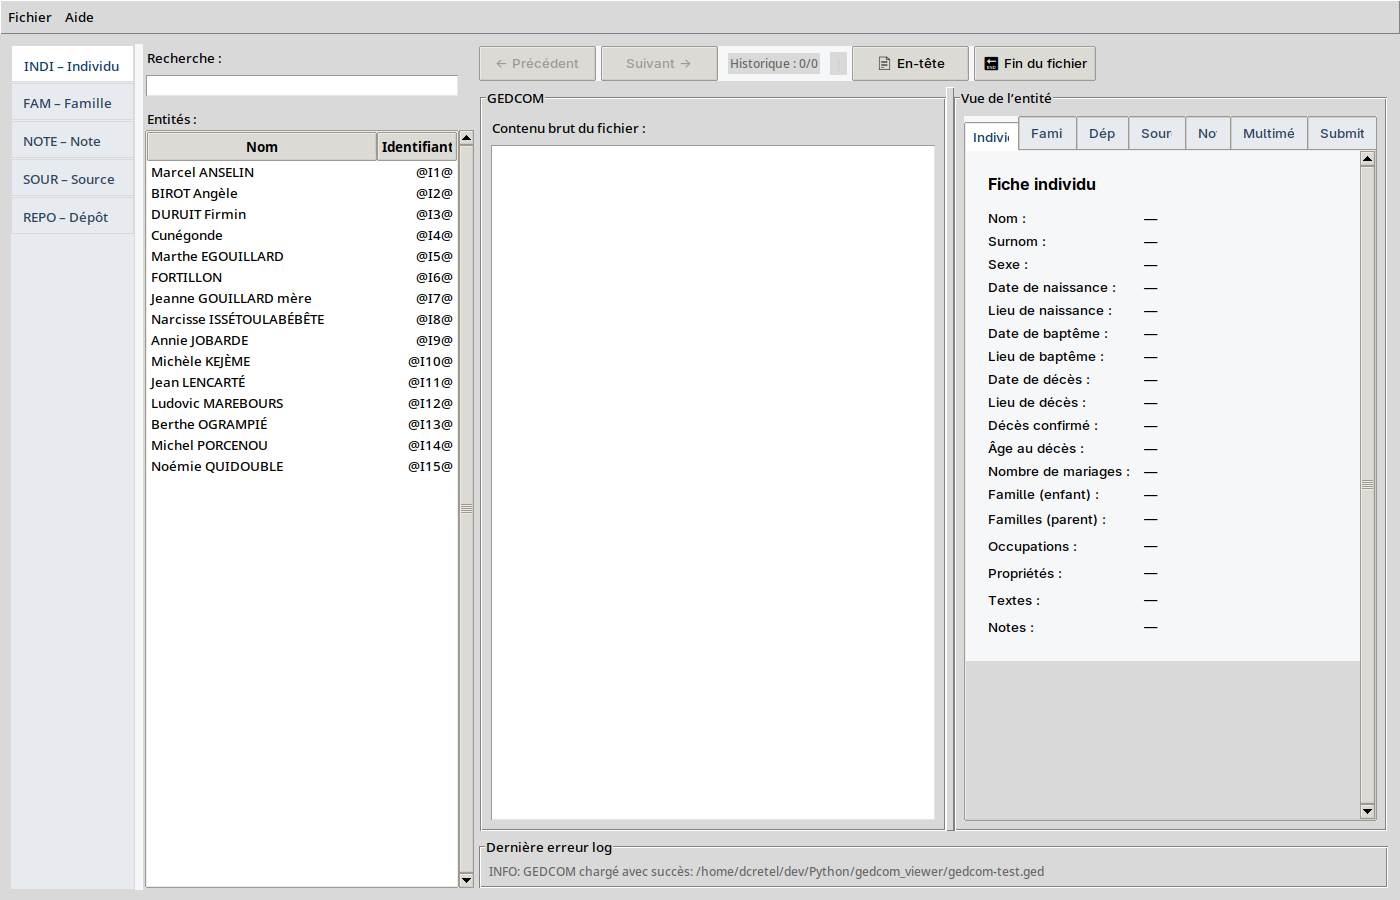
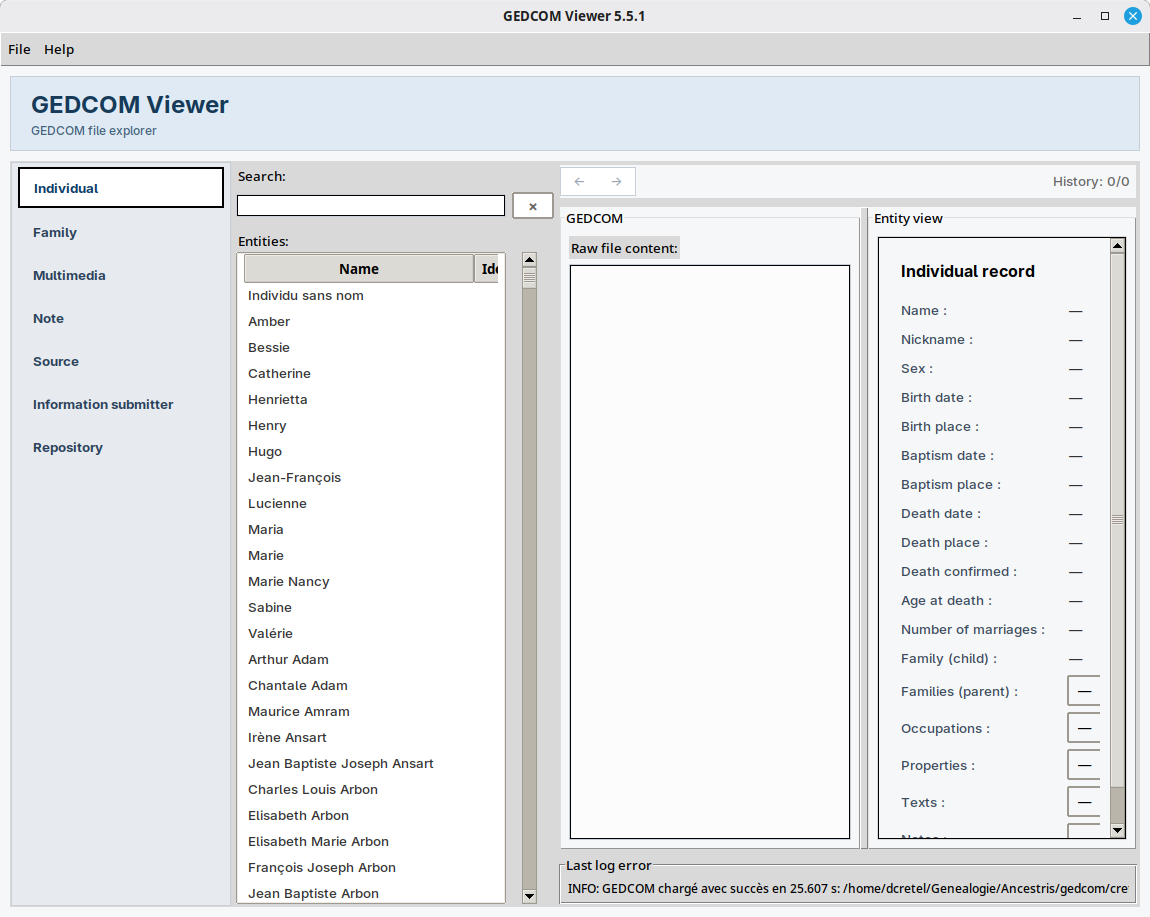
améliorations diverses

diff --git a/ui/views/multimedia_view.py b/ui/views/multimedia_view.py
@@ -1,6 +1,5 @@
 import logging
 import os
-import tempfile
 import tkinter as tk
 from tkinter import ttk
 
@@ -10,9 +9,10 @@ from ui.i18n import Translator
 logger = logging.getLogger(__name__)
 
 try:
-    from PIL import Image
+    from PIL import Image, ImageTk
 except ImportError:
     Image = None
+    ImageTk = None
 
 
 class MultimediaView(ttk.Frame):
@@ -174,16 +174,7 @@ class MultimediaView(ttk.Frame):
                 max_width = 640
                 max_height = 480
                 image.thumbnail((max_width, max_height))
-
-                with tempfile.NamedTemporaryFile(suffix=".png", delete=False) as tmp:
-                    temp_path = tmp.name
-
-                try:
-                    image.save(temp_path, format="PNG")
-                    photo = tk.PhotoImage(file=temp_path)
-                finally:
-                    if os.path.exists(temp_path):
-                        os.unlink(temp_path)
+                photo = ImageTk.PhotoImage(image)
         except Exception as exc:
             logger.exception("Échec du chargement de l’image %s", resolved_path)
             self._show_preview_placeholder(f"Impossible d’ouvrir l’image: {exc}")

diff --git a/ui/main_window.py b/ui/main_window.py
@@ -232,6 +232,15 @@ class GedcomViewer:
             insertbackground=COLORS["text"],
         )
         self.search_entry.grid(row=1, column=0, sticky="ew")
+        self.clear_search_button = ttk.Button(
+            left_frame,
+            text="×",
+            command=self.clear_search,
+            width=3,
+            style="ClearSearch.TButton",
+        )
+        self.clear_search_button.grid(row=1, column=1, padx=(6, 0))
+        _Tooltip(self.clear_search_button, tr("ui.clear_search"))
 
         tk.Label(left_frame, text=tr("ui.entities")).grid(
             row=2, column=0, sticky="w", pady=(10, 0)
@@ -910,6 +919,10 @@ class GedcomViewer:
                     getattr(entity, "pointer", "") or "—",
                 ),
             )
+
+    def clear_search(self):
+        self.search_var.set("")
+        self.search_entry.focus_set()
 
     def filter_entities(self, *args):
         if not self.controller.is_loaded():

diff --git a/ui/themes.py b/ui/themes.py
@@ -50,6 +50,20 @@ def apply_modern_theme(root):
         background=[("active", COLORS["sidebar_hover"])],
         foreground=[("disabled", COLORS["disabled_text"])],
     )
+    style.configure(
+        "ClearSearch.TButton",
+        font=("Segoe UI", 11, "bold"),
+        padding=(3, 1),
+        background=COLORS["surface"],
+        foreground=COLORS["muted_text"],
+        borderwidth=1,
+        relief="solid",
+    )
+    style.map(
+        "ClearSearch.TButton",
+        background=[("active", COLORS["sidebar_hover"])],
+        foreground=[("active", COLORS["text"]), ("disabled", COLORS["disabled_text"])],
+    )
     style.configure("TSeparator", background=COLORS["separator"])
     style.configure("TLabelframe", background=COLORS["background"])
     style.configure(

diff --git a/tests/test_main_window.py b/tests/test_main_window.py
@@ -96,6 +96,16 @@ class TestGedcomViewer(unittest.TestCase):
 
         self.assertEqual(askopenfilename.call_args.kwargs["initialdir"], "/tmp")
 
+    def test_clear_search_clears_filter(self):
+        self.viewer.controller.is_loaded.return_value = True
+        self.viewer.controller.get_entity_types.return_value = []
+        self.viewer.search_var.set("Doe")
+
+        self.assertEqual(self.viewer.clear_search_button.cget("style"), "ClearSearch.TButton")
+        self.viewer.clear_search_button.invoke()
+
+        self.assertEqual(self.viewer.search_var.get(), "")
+
     def test_show_header_displays_head_block(self):
         self.viewer.controller.is_loaded.return_value = True
         self.viewer.controller.extract_head.return_value = "0 HEAD\n1 SOUR GEDCOM"

diff --git a/README.md b/README.md
@@ -12,6 +12,8 @@ GEDCOM Viewer est une application de bureau Python/Tkinter pour ouvrir et explor
 - Deux modes d'ouverture : tolérant ou strict avec validation structurelle.
 - Liste des entités par type : `INDI`, `FAM`, `SOUR`, `REPO`, `NOTE`, `OBJE` et `SUBM`.
 - Recherche instantanée dans les entités.
+- Bouton d'effacement rapide du filtre de recherche.
+- Bouton d'effacement intégré à la palette visuelle de l'application.
 - Tri par nom, titre ou identifiant, avec tri numérique des pointeurs.
 - Navigation entre les pointeurs GEDCOM tels que `@I1@` ou `@F1@`.
 - Historique de navigation précédent/suivant.

diff --git a/ANALYSE_PROJET.md b/ANALYSE_PROJET.md
@@ -37,6 +37,8 @@ main.py
 - Chargement de fichiers GEDCOM et affichage du bloc brut.
 - Support des types `INDI`, `FAM`, `SOUR`, `REPO`, `NOTE`, `OBJE` et `SUBM`.
 - Recherche instantanée et tri par nom, titre ou identifiant.
+- Effacement rapide du filtre de recherche avec le bouton `×`.
+- Style du bouton harmonisé avec les couleurs de surface, de séparation et de survol de l'interface.
 - Tri numérique des pointeurs comme `@I2@` et `@I10@`.
 - Navigation entre pointeurs GEDCOM et historique précédent/suivant.
 - Gestion des fichiers récents.
